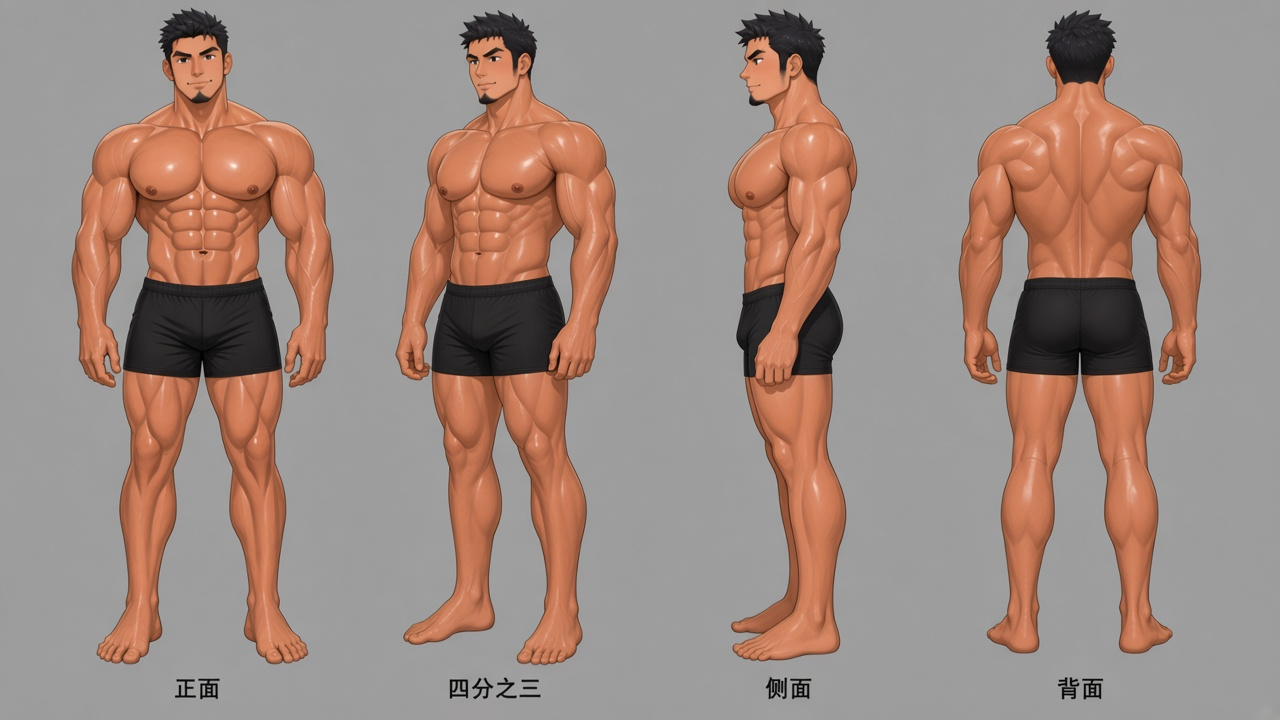
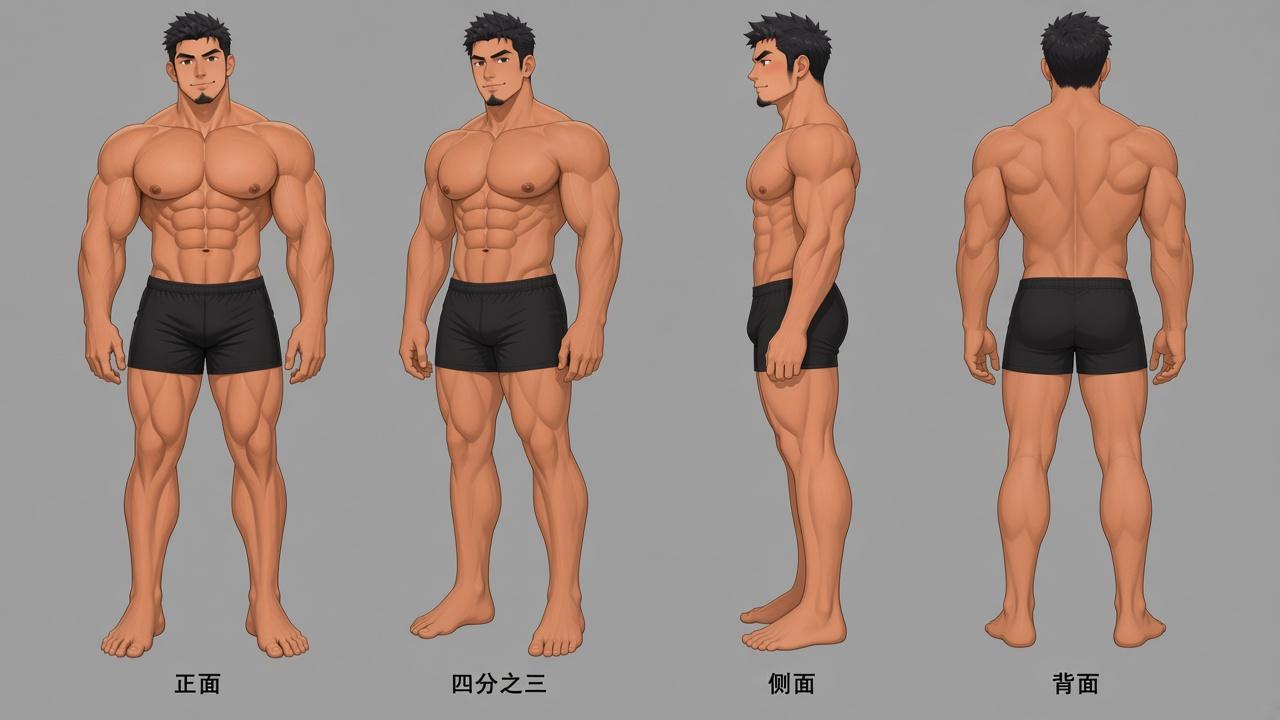
fix: 上胸再鼓，皮肤改成哑光
侧面的上胸加厚，下胸保持中间弧度。全身去掉油亮高光。

diff --git a/漫画分镜/多角度设定/设定说明.md b/漫画分镜/多角度设定/设定说明.md
@@ -5,8 +5,8 @@
 ## 识别点
 
 - 脸：短碎发。眼往侧看，深棕色。下颌收尖，下巴有一小撮山羊胡，颊侧淡胡茬。
-- 体：高，腿长。上胸向前鼓，下胸取厚与扁的中间，轮廓收回腹部。肩宽，腹肌清楚。
-- 肤色：暖小麦色。
+- 体：高，腿长。上胸再向前鼓，下胸取中间，轮廓收回腹部。肩宽，腹肌清楚。
+- 肤色：暖小麦色。渲染用哑光，不要油亮高光。
 
 ## 图
 
